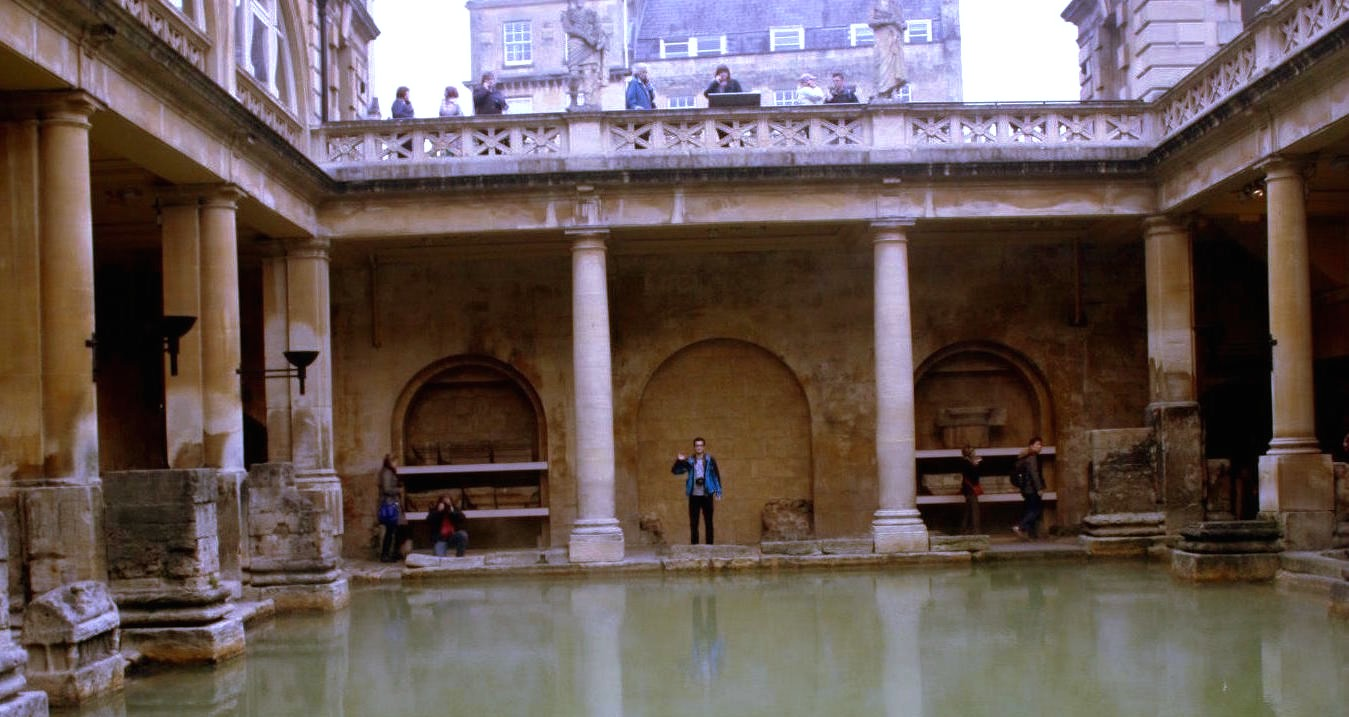
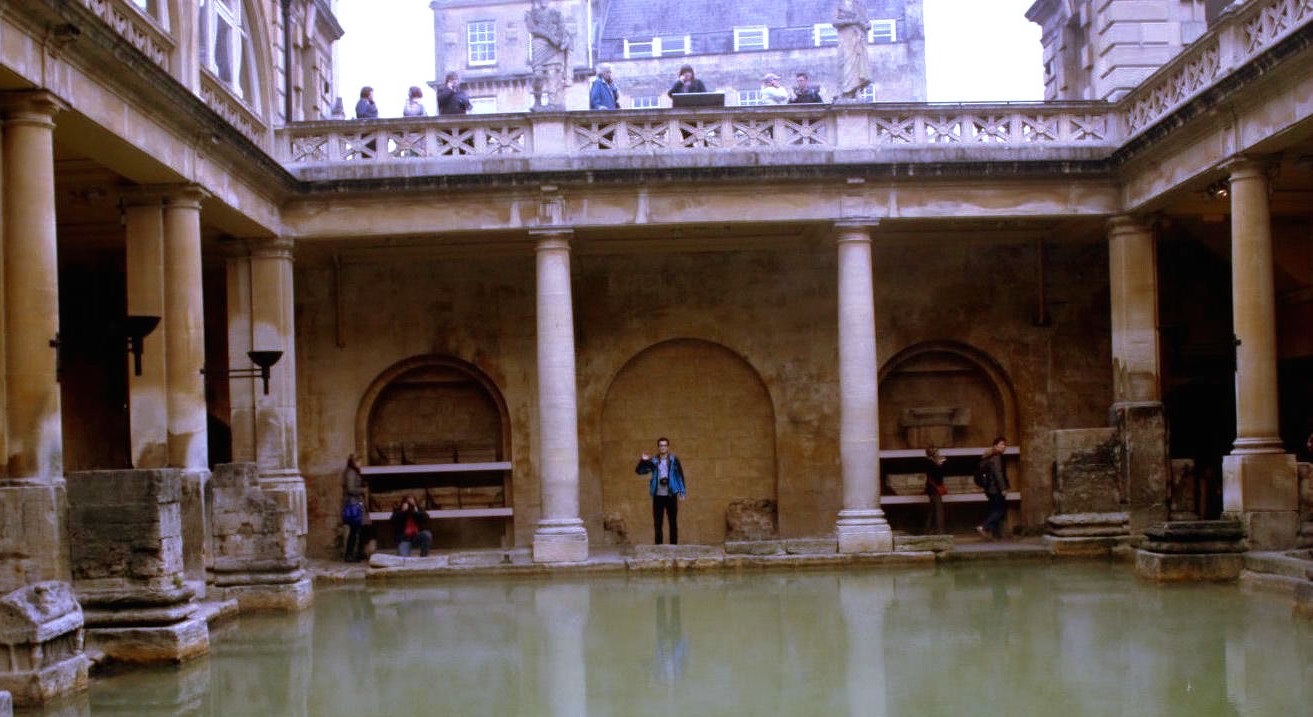
background, nav changes

diff --git a/main.css b/main.css
@@ -19,7 +19,7 @@ h6 {
   width: 100%;
   height: 100vh;*/
   background-size: cover;
-  background-image: url('img/bath_edited.jpg');
+  background-image: url('img/bath_edited2.jpg');
   background-position: center center;
   height: 100vh;
 
@@ -75,9 +75,12 @@ nav li {
 
 .navbar-brand {
   font-size: 26px;
-  color: black !important;
-  text-shadow: 0px 0px 1px white;
-  font-family:
+  color: white !important;
+  display: none;
+}
+
+.navbar-nav {
+  display: none;
 }
 
 .navbar-nav li {
@@ -86,8 +89,13 @@ nav li {
 
 .navbar a {
   color: black !important;
-  text-shadow: 0px 0px 1px white;
-  font-weight: 500;
+  /*background: rgba(255, 255, 255, 0.8);*/
+  /*text-shadow: 0px 0px 1px white;*/
+  font-weight: bolder !important;
+}
+
+.display-nav {
+  display: block;
 }
 
 /*navbar-custom Style*/
@@ -97,7 +105,7 @@ nav li {
   border-bottom: 1px solid rgba(255, 255, 255, 0.3);
   text-transform: uppercase;
   font-family: "Montserrat", "Helvetica Neue", Helvetica, Arial, sans-serif;
-  background-color: rgba(255,255,255, 0.9);
+  background-color: rgba(255,255,255, 0.8);
 }
 .navbar-custom .navbar-toggle {
   color: white;
@@ -173,7 +181,7 @@ nav li {
 
 /*BEGIN Content Sections Styles*/
 hr {
-border-color: black;
+border-color: #0892d0;
   border-width: 3px;
   max-width: 25%;
 }

diff --git a/index.html b/index.html
@@ -159,11 +159,10 @@
     <!--End Portfolio Modals-->
 
     <!-- jQuery (necessary for Bootstrap's JavaScript plugins) -->
-    <script src="https://ajax.googleapis.com/ajax/libs/jquery/1.12.4/jquery.min.js"></script>
+    <script src="https://ajax.googleapis.com/ajax/libs/jquery/3.1.1/jquery.min.js"></script>
     <!-- Include all compiled plugins (below), or include individual files as needed -->
     <script src="js/bootstrap.min.js"></script>
     <script src="js/grayscale.js"></script>
-    <script src="https://ajax.googleapis.com/ajax/libs/jquery/3.1.1/jquery.min.js"></script>
     <script type="text/javascript">
     //Add jQuery here
     </script>

diff --git a/js/grayscale.js b/js/grayscale.js
@@ -8,8 +8,12 @@
 function collapseNavbar() {
     if ($(".navbar").offset().top > 50) {
         $(".navbar-fixed-top").addClass("top-nav-collapse");
+        $(".navbar-brand, .navbar-nav li").addClass("display-nav")
+        $(".navbar-nav").addClass("display-nav")
     } else {
         $(".navbar-fixed-top").removeClass("top-nav-collapse");
+        $(".navbar-brand, .navbar-nav li").removeClass("display-nav")
+        $(".navbar-nav").removeClass("display-nav")
     }
 }
 
